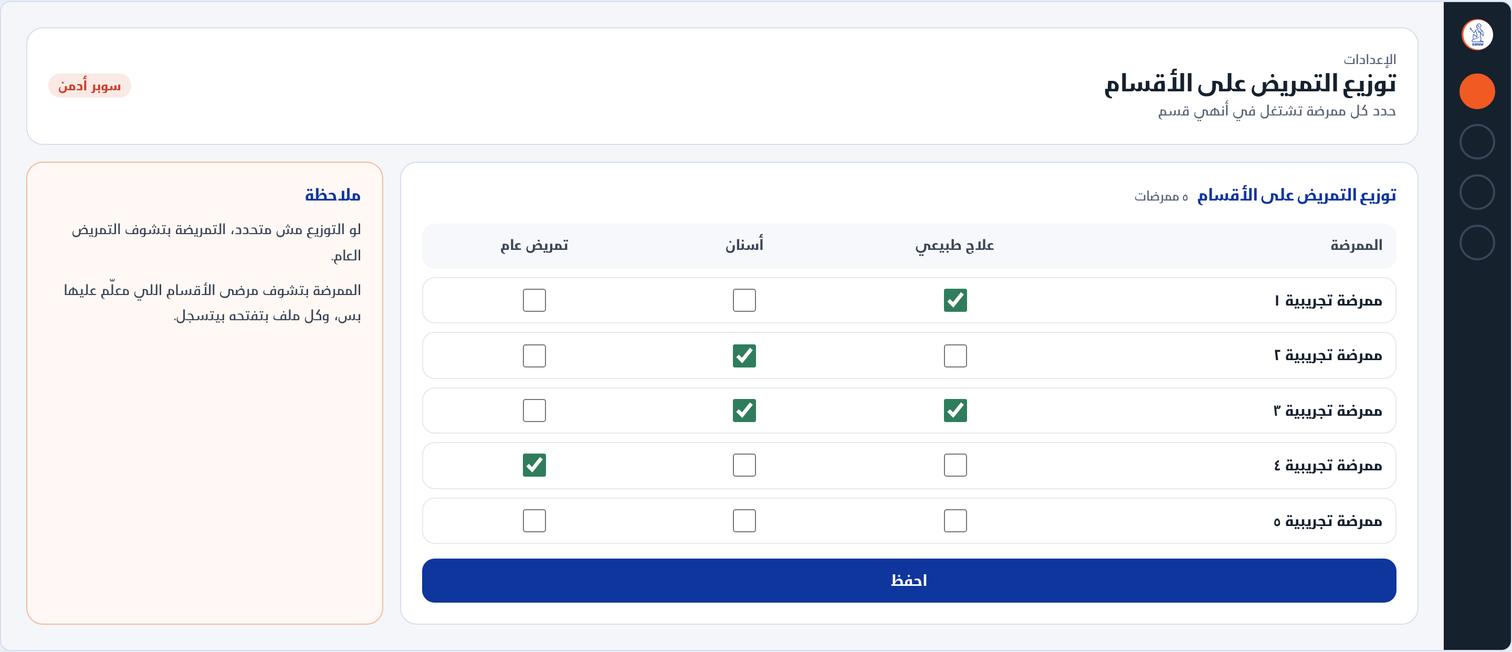
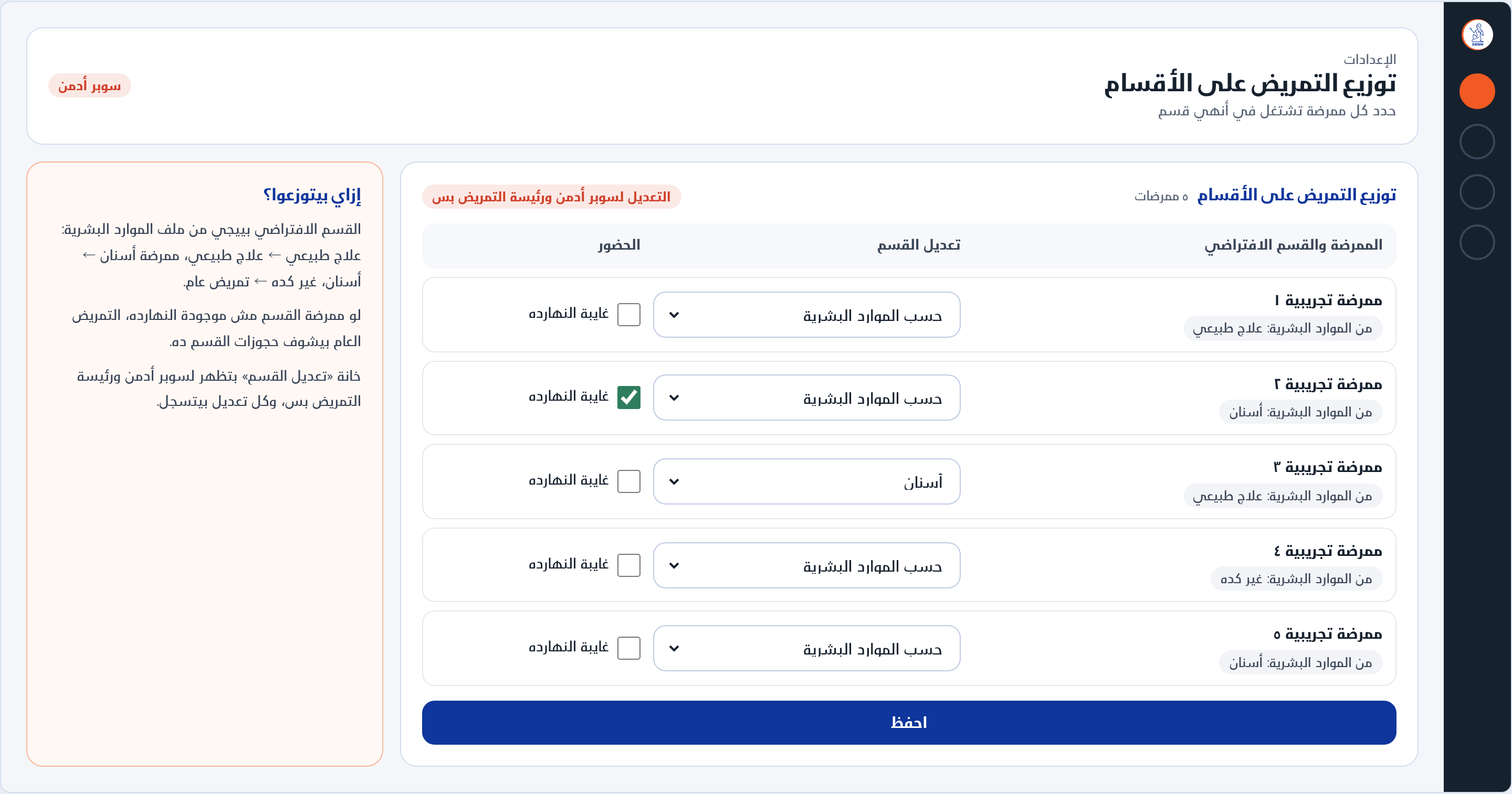
Add nursing day-ops mockup (6 screens, desktop + mobile)
Claude-Session: https://claude.ai/code/session_01UqVZHaBX8DDUeRDGiRHSpS

diff --git a/docs/ui-references/mockups/nursing-day-ops.html b/docs/ui-references/mockups/nursing-day-ops.html
@@ -81,7 +81,7 @@ body.only-m .pair{display:block}
 textarea{width:100%;border:1px solid #BFCBE3;border-radius:12px;padding:10px 12px;font:inherit;min-height:84px;resize:none;background:#fff;color:#16212E;line-height:1.7}
 textarea.ro{background:#F7F8FB;border-color:#E6E8EE}textarea.hl{border-color:#F15A22;background:#FFF8F4}
 .fg{display:grid;gap:14px;margin-top:14px}.fg.c2{grid-template-columns:1fr 1fr}.fg.c3{grid-template-columns:repeat(3,1fr)}
-.m .fg.c3{grid-template-columns:1fr 1fr}
+.m .fg.c3{grid-template-columns:1fr 1fr}.m .fg.c2{grid-template-columns:1fr}
 .chips{display:flex;gap:8px;flex-wrap:wrap}.cc{border:1px solid #BFCBE3;border-radius:99px;padding:6px 14px;font-weight:600;background:#fff;color:#3B4658;font-size:13px}
 .cc.on{background:#0F369D;border-color:#0F369D;color:#fff}
 .note{font-size:12px;color:#5b6577;line-height:1.8}
@@ -102,11 +102,11 @@ textarea.ro{background:#F7F8FB;border-color:#E6E8EE}textarea.hl{border-color:#F1
 .lock{background:#F7F8FB}.lock .fg .box,.lock textarea{background:#F2F4F7;border-color:#E6E8EE}
 .three3{display:grid;grid-template-columns:repeat(3,1fr);gap:8px;margin-top:14px}.m .three3{grid-template-columns:1fr}
 .tb{margin-top:14px;display:grid;gap:8px}
-.tr{display:grid;grid-template-columns:1.6fr 1fr 1fr 1fr;gap:12px;align-items:center;padding:10px 12px;border:1px solid #E6E8EE;border-radius:12px}
+.tr{display:grid;grid-template-columns:1.6fr 1.2fr .8fr;gap:12px;align-items:center;padding:10px 12px;border:1px solid #E6E8EE;border-radius:12px}
 .tr.h{background:#F7F8FB;border-color:#F7F8FB;font-weight:700;color:#3B4658;font-size:13px}
 .tr .cb{display:flex;justify-content:center}.tr .cb span{display:none}
-.m .tr{grid-template-columns:1fr 1fr 1fr}.m .tr.h{display:none}.m .tr>b{grid-column:1/-1}
-.m .tr .cb{flex-direction:column;align-items:center;gap:4px;font-size:11px;color:#3B4658}.m .tr .cb span{display:block}
+.m .tr{grid-template-columns:1fr}.m .tr.h{display:none}.mo{display:none}.m .mo{display:block}.tr b .chip{font-weight:400;margin-top:4px}.tr .cb.ab{justify-content:flex-start;gap:8px;font-size:13px}.tr .cb.ab span{display:block}.box select{flex:1;border:0;outline:0;font:inherit;background:transparent;padding:10px 0;color:#16212E;min-width:0}
+
 .hint{background:#FFF8F4;border-color:#F7B79A}.hint p{font-size:13px;line-height:1.9;color:#3B4658;margin-top:8px}
 </style></head><body>
 <div class="top"><h1>تشغيل اليوم — التمريض (تصور للموافقة)</h1><p>بيانات تجريبية بالكامل — لا أسماء مرضى حقيقية. كل شاشة بنسخة ديسكتوب وموبايل.</p></div>
@@ -119,6 +119,6 @@ textarea.ro{background:#F7F8FB;border-color:#E6E8EE}textarea.hl{border-color:#F1
 <div class="tiles"><div class="tile w"><small>ضغط الدم</small><b>١٦٠/١٠٠</b><em>مرتفع</em></div><div class="tile"><small>النبض</small><b>٨٨</b><em>نبضة/د</em></div><div class="tile"><small>الحرارة</small><b>٣٦٫٨</b><em>°م</em></div><div class="tile"><small>الأكسجين</small><b>٩٧</b><em>٪</em></div><div class="tile"><small>الوزن</small><b>٨٢</b><em>كجم</em></div><div class="tile"><small>سكر الدم</small><b>١١٠</b><em>mg/dL</em></div></div>
 <div class="three"><div><small>أمراض مزمنة</small><div class="chips"><span class="chip b">سكر</span><span class="chip b">ضغط</span></div></div><div><small>الشكوى الرئيسية</small><div class="q">«ألم في أسفل الضهر من ٣ أيام وبيزيد مع الحركة»</div></div><div><small>ملاحظات التمريض</small>المريض أخد دواء الضغط الصبح، وبيشتكي من صداع خفيف.</div></div></div><div class="card"><h3>الكشف والتشخيص</h3><div class="sk"></div><div class="sk"></div><div class="sk s"></div><div class="fg"><textarea aria-label="التشخيص" placeholder="التشخيص"></textarea></div></div><div class="card"><h3>آخر الزيارات <small>٣</small></h3><div class="tl"><div><i class="g"></i><span>الأسبوع اللي فات — جلسة علاج طبيعي</span></div><div><i class="g"></i><span>من أسبوعين — تقييم أولي</span></div><div><i class="g"></i><span>من شهر — كشف عظام</span></div></div></div></div></div></div></section>
 <section class="sec" id="s5"><p class="cap"><b>5. تفاصيل كتبتها المساعدة — اعتماد الدكتور</b>مسودة بانتظار الاعتماد، ثلاث قرارات للدكتور، سجل مراجعة، والنص المعتمد مقفول.</p><div class="pair"><div class="frame d"><aside class="rail"><img src="../../../assets/img/mark.svg" alt=""><i class="on"></i><i></i><i></i><i></i></aside><div class="main"><div class="card hd"><div class="t"><div class="dt">تفاصيل الجلسة السنية</div><h2>مريض تجريبي ٥ — اعتماد الدكتور</h2><div class="sub">المساعدة بتكتب مسودة، والدكتور هو اللي يعتمد</div></div><span class="chip o">أسنان</span></div><div class="cols eq"><div class="stack fill"><div class="card"><div class="pf"><div class="t"><h3>مسودة الجلسة — مساعدة أسنان</h3></div><span class="chip a">مسودة — بانتظار اعتماد الدكتور</span></div><div class="fg c2"><div class="f"><label>السن</label><div class="box"><input value="٣٦ — ضرس سفلي أيمن" aria-label="السن"></div></div><div class="f"><label>الإجراء</label><div class="box"><input value="حشو عصب — جلسة ١ من ٢" aria-label="الإجراء"></div></div></div><div class="fg"><div class="f"><label>ملاحظات الجلسة</label><textarea class="" aria-label="ملاحظات الجلسة">تم فتح القناة وتنظيفها، المريض متعاون ولا يوجد ألم بعد التخدير.</textarea></div><div class="f"><label>الخطة</label><textarea class="" aria-label="الخطة">جلسة تانية بعد أسبوع لحشو القناة.</textarea></div></div><div class="fg"><button class="btn p">إرسال للدكتور</button><span class="note">لحد ما الدكتور يعتمد، النص مش بيدخل الملف الرسمي.</span></div></div><div class="card lock"><div class="pf"><div class="t"><h3>بعد الاعتماد</h3></div><span class="chip g">معتمد ومقفول</span></div><div class="fg"><div class="f"><label>الخطة</label><textarea class="ro" aria-label="الخطة المعتمدة" readonly>جلسة تانية بعد أسبوع لحشو القناة، مع أشعة متابعة.</textarea></div><span class="note">النص المعتمد مقفول ومحدش يقدر يعدّله. أي تصحيح بعد كده بيتسجل كإضافة جديدة باسم الدكتور.</span></div></div></div><div class="stack fill"><div class="card"><div class="pf"><div class="t"><h3>مراجعة الدكتور</h3></div><span class="chip a">في انتظار قرارك</span></div><div class="fg c2"><div class="f"><label>السن</label><div class="box ro"><input value="٣٦ — ضرس سفلي أيمن" aria-label="السن"></div></div><div class="f"><label>الإجراء</label><div class="box ro"><input value="حشو عصب — جلسة ١ من ٢" aria-label="الإجراء"></div></div></div><div class="fg"><div class="f"><label>ملاحظات الجلسة</label><textarea class="ro" aria-label="ملاحظات الجلسة">تم فتح القناة وتنظيفها، المريض متعاون ولا يوجد ألم بعد التخدير.</textarea></div><div class="f"><label>الخطة</label><textarea class="hl" aria-label="الخطة">جلسة تانية بعد أسبوع لحشو القناة.</textarea></div></div><div class="fg"><div class="f"><label>سبب الرجوع للتعديل (إجباري لو هترجّعه)</label><textarea aria-label="سبب الرجوع" placeholder="اكتب اللي محتاج يتعدّل"></textarea></div><div class="bar"><button class="btn g">اعتماد</button><button class="btn p">تعديل واعتماد</button><button class="btn r">رجّعه للتعديل</button></div></div></div><div class="card"><h3>سجل المراجعة</h3><div class="tl"><div><i></i><span>كتبه: س. (مساعدة أسنان) <bdi>١٠:٥٠</bdi></span></div><div><i class="o"></i><span>راجعه: د. فلان <bdi>١١:٠٢</bdi> · عدّل خانة (الخطة)</span></div><div><i class="g"></i><span>اعتمد <bdi>١١:٠٥</bdi></span></div></div></div></div></div></div></div><div class="frame m"><div class="mbar"><img src="../../../assets/img/mark.svg" alt=""><b>تفاصيل كتبتها المساعدة — اعتماد الدكتور</b><i></i></div><div class="main"><div class="card hd"><div class="t"><div class="dt">تفاصيل الجلسة السنية</div><h2>مريض تجريبي ٥</h2><div class="sub">المساعدة بتكتب مسودة، والدكتور هو اللي يعتمد</div></div><span class="chip o">أسنان</span></div><div class="card"><div class="pf"><div class="t"><h3>مسودة الجلسة — مساعدة أسنان</h3></div><span class="chip a">مسودة — بانتظار اعتماد الدكتور</span></div><div class="fg c2"><div class="f"><label>السن</label><div class="box"><input value="٣٦ — ضرس سفلي أيمن" aria-label="السن"></div></div><div class="f"><label>الإجراء</label><div class="box"><input value="حشو عصب — جلسة ١ من ٢" aria-label="الإجراء"></div></div></div><div class="fg"><div class="f"><label>ملاحظات الجلسة</label><textarea class="" aria-label="ملاحظات الجلسة">تم فتح القناة وتنظيفها، المريض متعاون ولا يوجد ألم بعد التخدير.</textarea></div><div class="f"><label>الخطة</label><textarea class="" aria-label="الخطة">جلسة تانية بعد أسبوع لحشو القناة.</textarea></div></div><div class="fg"><button class="btn p">إرسال للدكتور</button><span class="note">لحد ما الدكتور يعتمد، النص مش بيدخل الملف الرسمي.</span></div></div><div class="card"><div class="pf"><div class="t"><h3>مراجعة الدكتور</h3></div><span class="chip a">في انتظار قرارك</span></div><div class="fg c2"><div class="f"><label>السن</label><div class="box ro"><input value="٣٦ — ضرس سفلي أيمن" aria-label="السن"></div></div><div class="f"><label>الإجراء</label><div class="box ro"><input value="حشو عصب — جلسة ١ من ٢" aria-label="الإجراء"></div></div></div><div class="fg"><div class="f"><label>ملاحظات الجلسة</label><textarea class="ro" aria-label="ملاحظات الجلسة">تم فتح القناة وتنظيفها، المريض متعاون ولا يوجد ألم بعد التخدير.</textarea></div><div class="f"><label>الخطة</label><textarea class="hl" aria-label="الخطة">جلسة تانية بعد أسبوع لحشو القناة.</textarea></div></div><div class="fg"><div class="f"><label>سبب الرجوع للتعديل (إجباري لو هترجّعه)</label><textarea aria-label="سبب الرجوع" placeholder="اكتب اللي محتاج يتعدّل"></textarea></div><div class="bar"><button class="btn g">اعتماد</button><button class="btn p">تعديل واعتماد</button><button class="btn r">رجّعه للتعديل</button></div></div></div><div class="card"><h3>سجل المراجعة</h3><div class="tl"><div><i></i><span>كتبه: س. (مساعدة أسنان) <bdi>١٠:٥٠</bdi></span></div><div><i class="o"></i><span>راجعه: د. فلان <bdi>١١:٠٢</bdi> · عدّل خانة (الخطة)</span></div><div><i class="g"></i><span>اعتمد <bdi>١١:٠٥</bdi></span></div></div></div><div class="card lock"><div class="pf"><div class="t"><h3>بعد الاعتماد</h3></div><span class="chip g">معتمد ومقفول</span></div><div class="fg"><div class="f"><label>الخطة</label><textarea class="ro" aria-label="الخطة المعتمدة" readonly>جلسة تانية بعد أسبوع لحشو القناة، مع أشعة متابعة.</textarea></div><span class="note">النص المعتمد مقفول ومحدش يقدر يعدّله. أي تصحيح بعد كده بيتسجل كإضافة جديدة باسم الدكتور.</span></div></div></div></div></div></section>
-<section class="sec" id="s6"><p class="cap"><b>6. الإعدادات — توزيع التمريض على الأقسام</b>للسوبر أدمن بس.</p><div class="pair"><div class="frame d"><aside class="rail"><img src="../../../assets/img/mark.svg" alt=""><i class="on"></i><i></i><i></i><i></i></aside><div class="main"><div class="card hd"><div class="t"><div class="dt">الإعدادات</div><h2>توزيع التمريض على الأقسام</h2><div class="sub">حدد كل ممرضة تشتغل في أنهي قسم</div></div><span class="chip r">سوبر أدمن</span></div><div class="cols s"><div class="stack fill"><div class="card"><h3>توزيع التمريض على الأقسام <small>٥ ممرضات</small></h3><div class="tb"><div class="tr h"><span>الممرضة</span><span style="text-align:center">علاج طبيعي</span><span style="text-align:center">أسنان</span><span style="text-align:center">تمريض عام</span></div><div class="tr"><b>ممرضة تجريبية ١</b><label class="cb"><input type="checkbox" aria-label="علاج طبيعي" checked><span>علاج طبيعي</span></label><label class="cb"><input type="checkbox" aria-label="أسنان"><span>أسنان</span></label><label class="cb"><input type="checkbox" aria-label="تمريض عام"><span>تمريض عام</span></label></div><div class="tr"><b>ممرضة تجريبية ٢</b><label class="cb"><input type="checkbox" aria-label="علاج طبيعي"><span>علاج طبيعي</span></label><label class="cb"><input type="checkbox" aria-label="أسنان" checked><span>أسنان</span></label><label class="cb"><input type="checkbox" aria-label="تمريض عام"><span>تمريض عام</span></label></div><div class="tr"><b>ممرضة تجريبية ٣</b><label class="cb"><input type="checkbox" aria-label="علاج طبيعي" checked><span>علاج طبيعي</span></label><label class="cb"><input type="checkbox" aria-label="أسنان" checked><span>أسنان</span></label><label class="cb"><input type="checkbox" aria-label="تمريض عام"><span>تمريض عام</span></label></div><div class="tr"><b>ممرضة تجريبية ٤</b><label class="cb"><input type="checkbox" aria-label="علاج طبيعي"><span>علاج طبيعي</span></label><label class="cb"><input type="checkbox" aria-label="أسنان"><span>أسنان</span></label><label class="cb"><input type="checkbox" aria-label="تمريض عام" checked><span>تمريض عام</span></label></div><div class="tr"><b>ممرضة تجريبية ٥</b><label class="cb"><input type="checkbox" aria-label="علاج طبيعي"><span>علاج طبيعي</span></label><label class="cb"><input type="checkbox" aria-label="أسنان"><span>أسنان</span></label><label class="cb"><input type="checkbox" aria-label="تمريض عام"><span>تمريض عام</span></label></div></div><div class="fg"><button class="btn p">احفظ</button></div></div></div><div class="stack fill"><div class="card hint"><h3>ملاحظة</h3><p>لو التوزيع مش متحدد، التمريضة بتشوف التمريض العام.</p><p>الممرضة بتشوف مرضى الأقسام اللي معلّم عليها بس، وكل ملف بتفتحه بيتسجل.</p></div></div></div></div></div><div class="frame m"><div class="mbar"><img src="../../../assets/img/mark.svg" alt=""><b>الإعدادات — توزيع التمريض على الأقسام</b><i></i></div><div class="main"><div class="card hd"><div class="t"><div class="dt">الإعدادات</div><h2>توزيع التمريض على الأقسام</h2><div class="sub">حدد كل ممرضة تشتغل في أنهي قسم</div></div><span class="chip r">سوبر أدمن</span></div><div class="card"><h3>توزيع التمريض على الأقسام <small>٥ ممرضات</small></h3><div class="tb"><div class="tr h"><span>الممرضة</span><span style="text-align:center">علاج طبيعي</span><span style="text-align:center">أسنان</span><span style="text-align:center">تمريض عام</span></div><div class="tr"><b>ممرضة تجريبية ١</b><label class="cb"><input type="checkbox" aria-label="علاج طبيعي" checked><span>علاج طبيعي</span></label><label class="cb"><input type="checkbox" aria-label="أسنان"><span>أسنان</span></label><label class="cb"><input type="checkbox" aria-label="تمريض عام"><span>تمريض عام</span></label></div><div class="tr"><b>ممرضة تجريبية ٢</b><label class="cb"><input type="checkbox" aria-label="علاج طبيعي"><span>علاج طبيعي</span></label><label class="cb"><input type="checkbox" aria-label="أسنان" checked><span>أسنان</span></label><label class="cb"><input type="checkbox" aria-label="تمريض عام"><span>تمريض عام</span></label></div><div class="tr"><b>ممرضة تجريبية ٣</b><label class="cb"><input type="checkbox" aria-label="علاج طبيعي" checked><span>علاج طبيعي</span></label><label class="cb"><input type="checkbox" aria-label="أسنان" checked><span>أسنان</span></label><label class="cb"><input type="checkbox" aria-label="تمريض عام"><span>تمريض عام</span></label></div><div class="tr"><b>ممرضة تجريبية ٤</b><label class="cb"><input type="checkbox" aria-label="علاج طبيعي"><span>علاج طبيعي</span></label><label class="cb"><input type="checkbox" aria-label="أسنان"><span>أسنان</span></label><label class="cb"><input type="checkbox" aria-label="تمريض عام" checked><span>تمريض عام</span></label></div><div class="tr"><b>ممرضة تجريبية ٥</b><label class="cb"><input type="checkbox" aria-label="علاج طبيعي"><span>علاج طبيعي</span></label><label class="cb"><input type="checkbox" aria-label="أسنان"><span>أسنان</span></label><label class="cb"><input type="checkbox" aria-label="تمريض عام"><span>تمريض عام</span></label></div></div><div class="fg"><button class="btn p">احفظ</button></div></div><div class="card hint"><h3>ملاحظة</h3><p>لو التوزيع مش متحدد، التمريضة بتشوف التمريض العام.</p><p>الممرضة بتشوف مرضى الأقسام اللي معلّم عليها بس، وكل ملف بتفتحه بيتسجل.</p></div></div></div></div></section>
+<section class="sec" id="s6"><p class="cap"><b>6. الإعدادات — توزيع التمريض على الأقسام</b>للسوبر أدمن بس.</p><div class="pair"><div class="frame d"><aside class="rail"><img src="../../../assets/img/mark.svg" alt=""><i class="on"></i><i></i><i></i><i></i></aside><div class="main"><div class="card hd"><div class="t"><div class="dt">الإعدادات</div><h2>توزيع التمريض على الأقسام</h2><div class="sub">حدد كل ممرضة تشتغل في أنهي قسم</div></div><span class="chip r">سوبر أدمن</span></div><div class="cols s"><div class="stack fill"><div class="card"><div class="pf"><div class="t"><h3>توزيع التمريض على الأقسام <small>٥ ممرضات</small></h3></div><span class="chip r">التعديل لسوبر أدمن ورئيسة التمريض بس</span></div><div class="tb"><div class="tr h"><span>الممرضة والقسم الافتراضي</span><span>تعديل القسم</span><span>الحضور</span></div><div class="tr"><b>ممرضة تجريبية ١<br><span class="chip">من الموارد البشرية: علاج طبيعي</span></b><div class="f"><label class="mo">تعديل القسم</label><div class="box"><select aria-label="تعديل القسم"><option>حسب الموارد البشرية</option><option>علاج طبيعي</option><option>أسنان</option><option>تمريض عام</option></select></div></div><label class="cb ab"><input type="checkbox" aria-label="غايبة النهارده"><span>غايبة النهارده</span></label></div><div class="tr"><b>ممرضة تجريبية ٢<br><span class="chip">من الموارد البشرية: أسنان</span></b><div class="f"><label class="mo">تعديل القسم</label><div class="box"><select aria-label="تعديل القسم"><option>حسب الموارد البشرية</option><option>علاج طبيعي</option><option>أسنان</option><option>تمريض عام</option></select></div></div><label class="cb ab"><input type="checkbox" aria-label="غايبة النهارده" checked><span>غايبة النهارده</span></label></div><div class="tr"><b>ممرضة تجريبية ٣<br><span class="chip">من الموارد البشرية: علاج طبيعي</span></b><div class="f"><label class="mo">تعديل القسم</label><div class="box"><select aria-label="تعديل القسم"><option>أسنان</option><option>علاج طبيعي</option><option>أسنان</option><option>تمريض عام</option></select></div></div><label class="cb ab"><input type="checkbox" aria-label="غايبة النهارده"><span>غايبة النهارده</span></label></div><div class="tr"><b>ممرضة تجريبية ٤<br><span class="chip">من الموارد البشرية: غير كده</span></b><div class="f"><label class="mo">تعديل القسم</label><div class="box"><select aria-label="تعديل القسم"><option>حسب الموارد البشرية</option><option>علاج طبيعي</option><option>أسنان</option><option>تمريض عام</option></select></div></div><label class="cb ab"><input type="checkbox" aria-label="غايبة النهارده"><span>غايبة النهارده</span></label></div><div class="tr"><b>ممرضة تجريبية ٥<br><span class="chip">من الموارد البشرية: أسنان</span></b><div class="f"><label class="mo">تعديل القسم</label><div class="box"><select aria-label="تعديل القسم"><option>حسب الموارد البشرية</option><option>علاج طبيعي</option><option>أسنان</option><option>تمريض عام</option></select></div></div><label class="cb ab"><input type="checkbox" aria-label="غايبة النهارده"><span>غايبة النهارده</span></label></div></div><div class="fg"><button class="btn p">احفظ</button></div></div></div><div class="stack fill"><div class="card hint"><h3>إزاي بيتوزعوا؟</h3><p>القسم الافتراضي بييجي من ملف الموارد البشرية: علاج طبيعي ← علاج طبيعي، ممرضة أسنان ← أسنان، غير كده ← تمريض عام.</p><p>لو ممرضة القسم مش موجودة النهارده، التمريض العام بيشوف حجوزات القسم ده.</p><p>خانة «تعديل القسم» بتظهر لسوبر أدمن ورئيسة التمريض بس، وكل تعديل بيتسجل.</p></div></div></div></div></div><div class="frame m"><div class="mbar"><img src="../../../assets/img/mark.svg" alt=""><b>الإعدادات — توزيع التمريض على الأقسام</b><i></i></div><div class="main"><div class="card hd"><div class="t"><div class="dt">الإعدادات</div><h2>توزيع التمريض على الأقسام</h2><div class="sub">حدد كل ممرضة تشتغل في أنهي قسم</div></div><span class="chip r">سوبر أدمن</span></div><div class="card"><div class="pf"><div class="t"><h3>توزيع التمريض على الأقسام <small>٥ ممرضات</small></h3></div><span class="chip r">التعديل لسوبر أدمن ورئيسة التمريض بس</span></div><div class="tb"><div class="tr h"><span>الممرضة والقسم الافتراضي</span><span>تعديل القسم</span><span>الحضور</span></div><div class="tr"><b>ممرضة تجريبية ١<br><span class="chip">من الموارد البشرية: علاج طبيعي</span></b><div class="f"><label class="mo">تعديل القسم</label><div class="box"><select aria-label="تعديل القسم"><option>حسب الموارد البشرية</option><option>علاج طبيعي</option><option>أسنان</option><option>تمريض عام</option></select></div></div><label class="cb ab"><input type="checkbox" aria-label="غايبة النهارده"><span>غايبة النهارده</span></label></div><div class="tr"><b>ممرضة تجريبية ٢<br><span class="chip">من الموارد البشرية: أسنان</span></b><div class="f"><label class="mo">تعديل القسم</label><div class="box"><select aria-label="تعديل القسم"><option>حسب الموارد البشرية</option><option>علاج طبيعي</option><option>أسنان</option><option>تمريض عام</option></select></div></div><label class="cb ab"><input type="checkbox" aria-label="غايبة النهارده" checked><span>غايبة النهارده</span></label></div><div class="tr"><b>ممرضة تجريبية ٣<br><span class="chip">من الموارد البشرية: علاج طبيعي</span></b><div class="f"><label class="mo">تعديل القسم</label><div class="box"><select aria-label="تعديل القسم"><option>أسنان</option><option>علاج طبيعي</option><option>أسنان</option><option>تمريض عام</option></select></div></div><label class="cb ab"><input type="checkbox" aria-label="غايبة النهارده"><span>غايبة النهارده</span></label></div><div class="tr"><b>ممرضة تجريبية ٤<br><span class="chip">من الموارد البشرية: غير كده</span></b><div class="f"><label class="mo">تعديل القسم</label><div class="box"><select aria-label="تعديل القسم"><option>حسب الموارد البشرية</option><option>علاج طبيعي</option><option>أسنان</option><option>تمريض عام</option></select></div></div><label class="cb ab"><input type="checkbox" aria-label="غايبة النهارده"><span>غايبة النهارده</span></label></div><div class="tr"><b>ممرضة تجريبية ٥<br><span class="chip">من الموارد البشرية: أسنان</span></b><div class="f"><label class="mo">تعديل القسم</label><div class="box"><select aria-label="تعديل القسم"><option>حسب الموارد البشرية</option><option>علاج طبيعي</option><option>أسنان</option><option>تمريض عام</option></select></div></div><label class="cb ab"><input type="checkbox" aria-label="غايبة النهارده"><span>غايبة النهارده</span></label></div></div><div class="fg"><button class="btn p">احفظ</button></div></div><div class="card hint"><h3>إزاي بيتوزعوا؟</h3><p>القسم الافتراضي بييجي من ملف الموارد البشرية: علاج طبيعي ← علاج طبيعي، ممرضة أسنان ← أسنان، غير كده ← تمريض عام.</p><p>لو ممرضة القسم مش موجودة النهارده، التمريض العام بيشوف حجوزات القسم ده.</p><p>خانة «تعديل القسم» بتظهر لسوبر أدمن ورئيسة التمريض بس، وكل تعديل بيتسجل.</p></div></div></div></div></section>
 <script>(function(){var o=/only=(d|m)/.exec(location.search);if(o)document.body.className='only-'+o[1];document.querySelectorAll('.tabs').forEach(function(t){t.addEventListener('click',function(e){var b=e.target.closest('.tab');if(!b)return;t.querySelectorAll('.tab').forEach(function(x){x.classList.remove('on')});b.classList.add('on')})})})();</script>
 </body></html>
